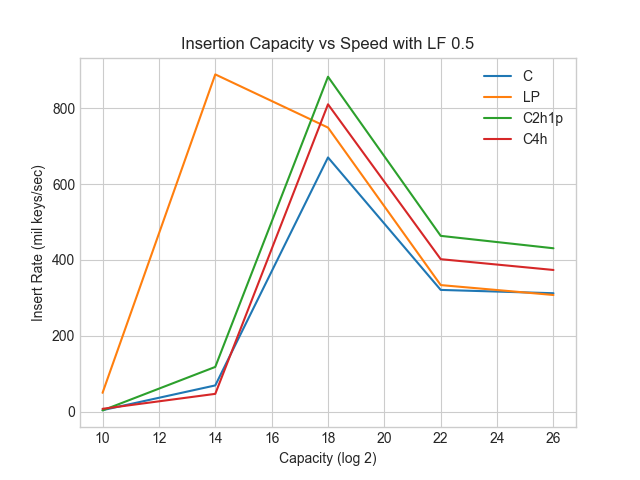
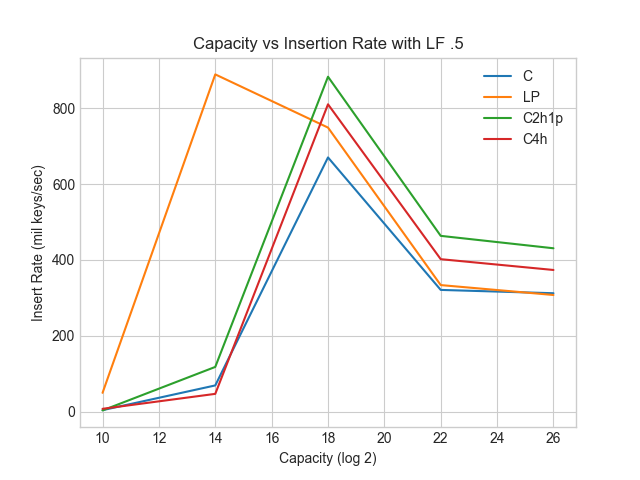
plot updates

Changed region(s): [[0.2812, 0.0625, 0.75, 0.125]]

diff --git a/plotting/ht_data_plot.py b/plotting/ht_data_plot.py
@@ -79,7 +79,7 @@ import matplotlib.pyplot as plt
 plt.style.use('seaborn-whitegrid')
 import numpy as np
 
-plt.title("Insertion LF vs Speed with Capacity 2^26")
+plt.title("LF vs Insertion Rate with Capacity 2^26")
 plt.xlabel("Load Factor")
 plt.ylabel("Insert Rate (mil keys/sec)")
 for name in names:
@@ -88,7 +88,7 @@ plt.legend(loc="upper right")
 plt.savefig("insert_LFvSpeed.png")
 
 plt.clf()
-plt.title("Lookup LF vs Speed with Capacity 2^26")
+plt.title("LF vs Lookup Rate with Capacity 2^26")
 plt.xlabel("Load Factor")
 plt.ylabel("Lookup Rate (mil keys/sec)")
 for name in names:
@@ -97,7 +97,7 @@ plt.legend(loc="upper right")
 plt.savefig("lookup_LFvSpeed.png")
 
 plt.clf()
-plt.title("Insertion Capacity vs Speed with LF 0.5")
+plt.title("Capacity vs Insertion Rate with LF .5")
 plt.xlabel("Capacity (log 2)")
 plt.ylabel("Insert Rate (mil keys/sec)")
 for name in names:
@@ -106,7 +106,7 @@ plt.legend(loc="upper right")
 plt.savefig("insert_CvSpeed.png")
 
 plt.clf()
-plt.title("Lookup Capacity vs Speed with LF 0.5")
+plt.title("Capacity vs Lookup Rate with LF .5")
 plt.xlabel("Capacity (log 2)")
 plt.ylabel("Lookup Rate (mil keys/sec)")
 for name in names:
